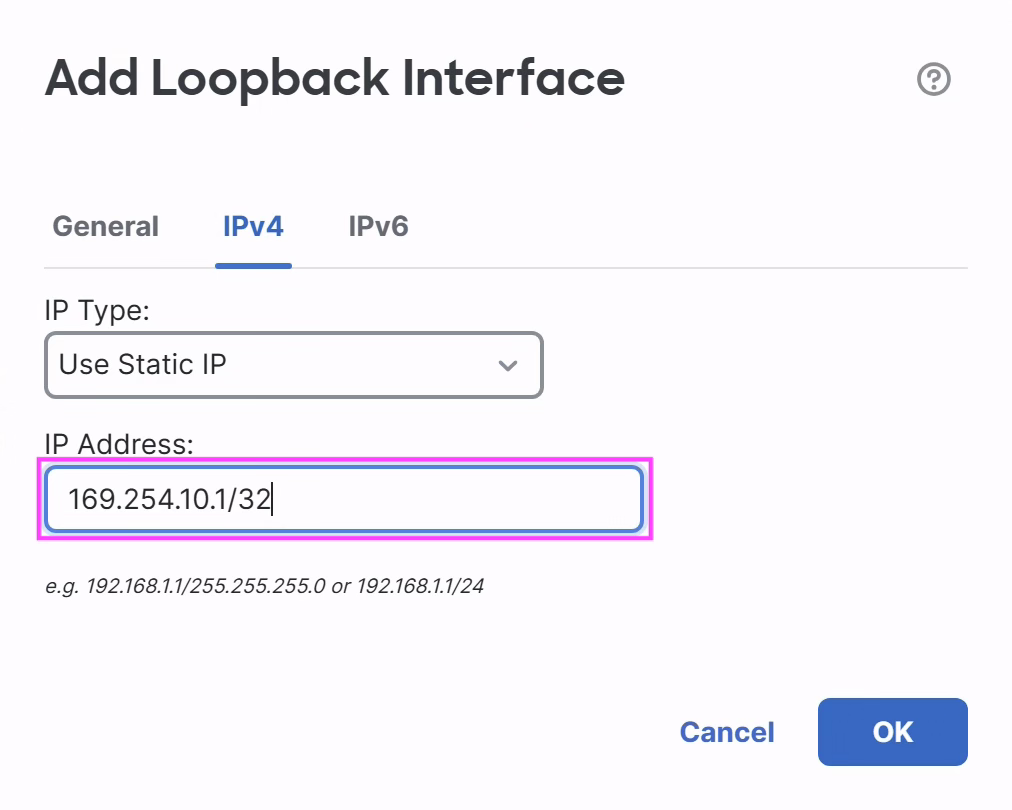
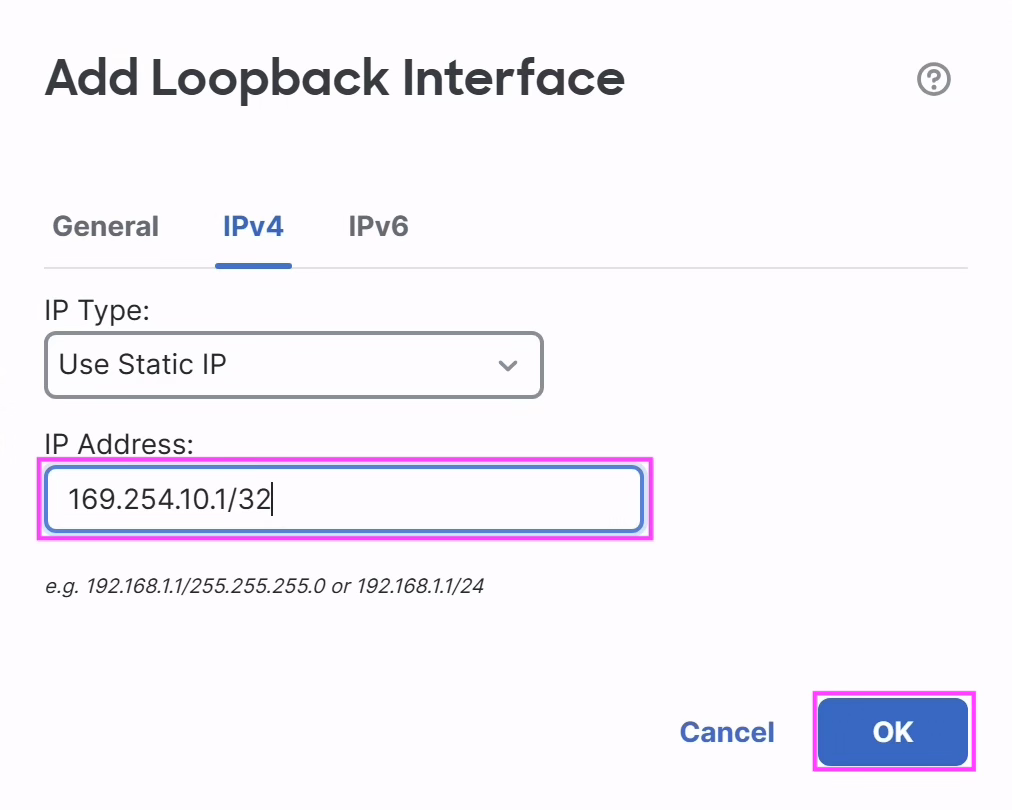
Refresh screenshots in 1.1.2, 1.1.3 and 1.7.2
- Replace 1.1.2.3.3.png with a fresh capture of the Loopback IPv4
  tab that highlights the OK button.
- Replace 1.1.3.2.1.png and 1.1.3.2.2.png with new captures that
  highlight the Next button and the B1 / B2 selection rows in the
  Add Bulk Spokes dialog.
- Insert a new 1.7.2.1.png showing navigation to
  Troubleshooting > Tools > Threat Defense CLI, shift existing
  1.7.2.1 -> 1.7.2.2 and existing 1.7.2.2 -> 1.7.2.3, and update
  scenario1.md figure references accordingly.

Changed region(s): [[0.7964, 0.8333, 0.9802, 0.9568]]

diff --git a/docs/scenario1.md b/docs/scenario1.md
@@ -708,7 +708,11 @@ When SD-WAN Topology is deployed to Hubs and Spokes, BGP commands are
 auto generated and deployed to the devices. In this step, verify the
 BGP and other configured and learnt routes at the Hub.
 
-1.  Go to **Troubleshooting \> Tools \> Threat Defense CLI**.
+1.  Go to **Troubleshooting &rarr; Tools &rarr; Threat Defense CLI**.
+
+    <figure markdown style="max-width:8.0cm;">
+      ![Threat Defense CLI menu navigation](assets/screens/1.7.2.1.png){ loading=lazy }
+    </figure>
 
 2.  This launches the **CLI Troubleshoot** dialog. Fill it in as
     follows:
@@ -724,7 +728,7 @@ BGP and other configured and learnt routes at the Hub.
     BGP
 
 <figure markdown style="max-width:16.0cm;">
-  ![screenshot](assets/screens/1.7.2.1.png){ loading=lazy }
+  ![screenshot](assets/screens/1.7.2.2.png){ loading=lazy }
 </figure>
 
 5.  Scroll through routes output and Verify internal routes learnt from
@@ -736,7 +740,7 @@ BGP and other configured and learnt routes at the Hub.
     and 192.168.2.0/255.255.255.0) got distributed over BGP (**B**)
 
 <figure markdown style="max-width:12.0cm;">
-  ![screenshot](assets/screens/1.7.2.2.png){ loading=lazy }
+  ![screenshot](assets/screens/1.7.2.3.png){ loading=lazy }
 </figure>
 
 ### 1.7.3 Verify traffic between protected networks behind spoke (NGFW-B1) and hub (NGFW-HUB)
